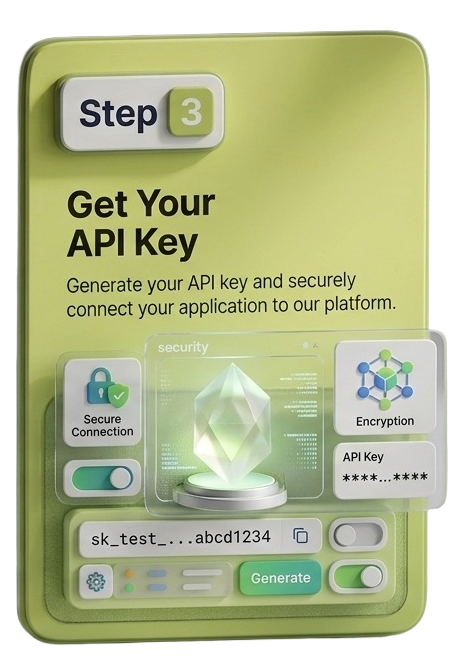
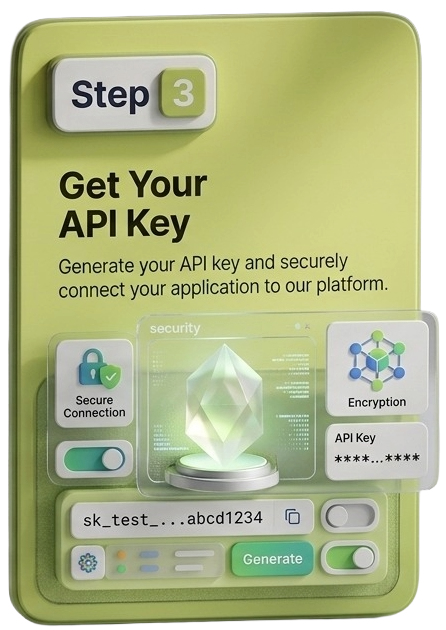
added some changes in the layout

diff --git a/app/components/FAQ.tsx b/app/components/FAQ.tsx
@@ -59,8 +59,8 @@ export default function FAQ() {
   }; 
 
   return ( 
-    <section id="faq" className="px-6 py-16 sm:px-10 lg:px-20"> 
-      <div className="mx-auto max-w-7xl"> 
+    <section id="faq" className="px-6  py-16 pb-50  sm:px-10 lg:px-20"> 
+      <div className="mx-auto max-w-7xl "> 
 
         {/* Header - Centered on Top */} 
         <div className="mb-14 text-center"> 
@@ -79,7 +79,7 @@ export default function FAQ() {
         </div> 
 
         {/* Two-Column Content Grid */} 
-        <div className="grid grid-cols-1 items-start gap-12 lg:grid-cols-2 lg:gap-16"> 
+        <div className="grid grid-cols-1 md:pt-10 items-start gap-12 lg:grid-cols-2 lg:gap-16"> 
           
           {/* Left Column: FAQ Accordion */} 
           <div className="divide-y divide-slate-200 border-y border-slate-200"> 

diff --git a/app/page.tsx b/app/page.tsx
@@ -7,11 +7,11 @@ import FAQ from "./components/FAQ";
 
 export default function Home() {
   return (
-    <main className="flex flex-col gap-40">
+    <main className="flex flex-col gap-30">
     <Hero/>
     <About/>
     <Process/>
-    <FAQ/>
+    <FAQ/>F
         
     </ main>
 
